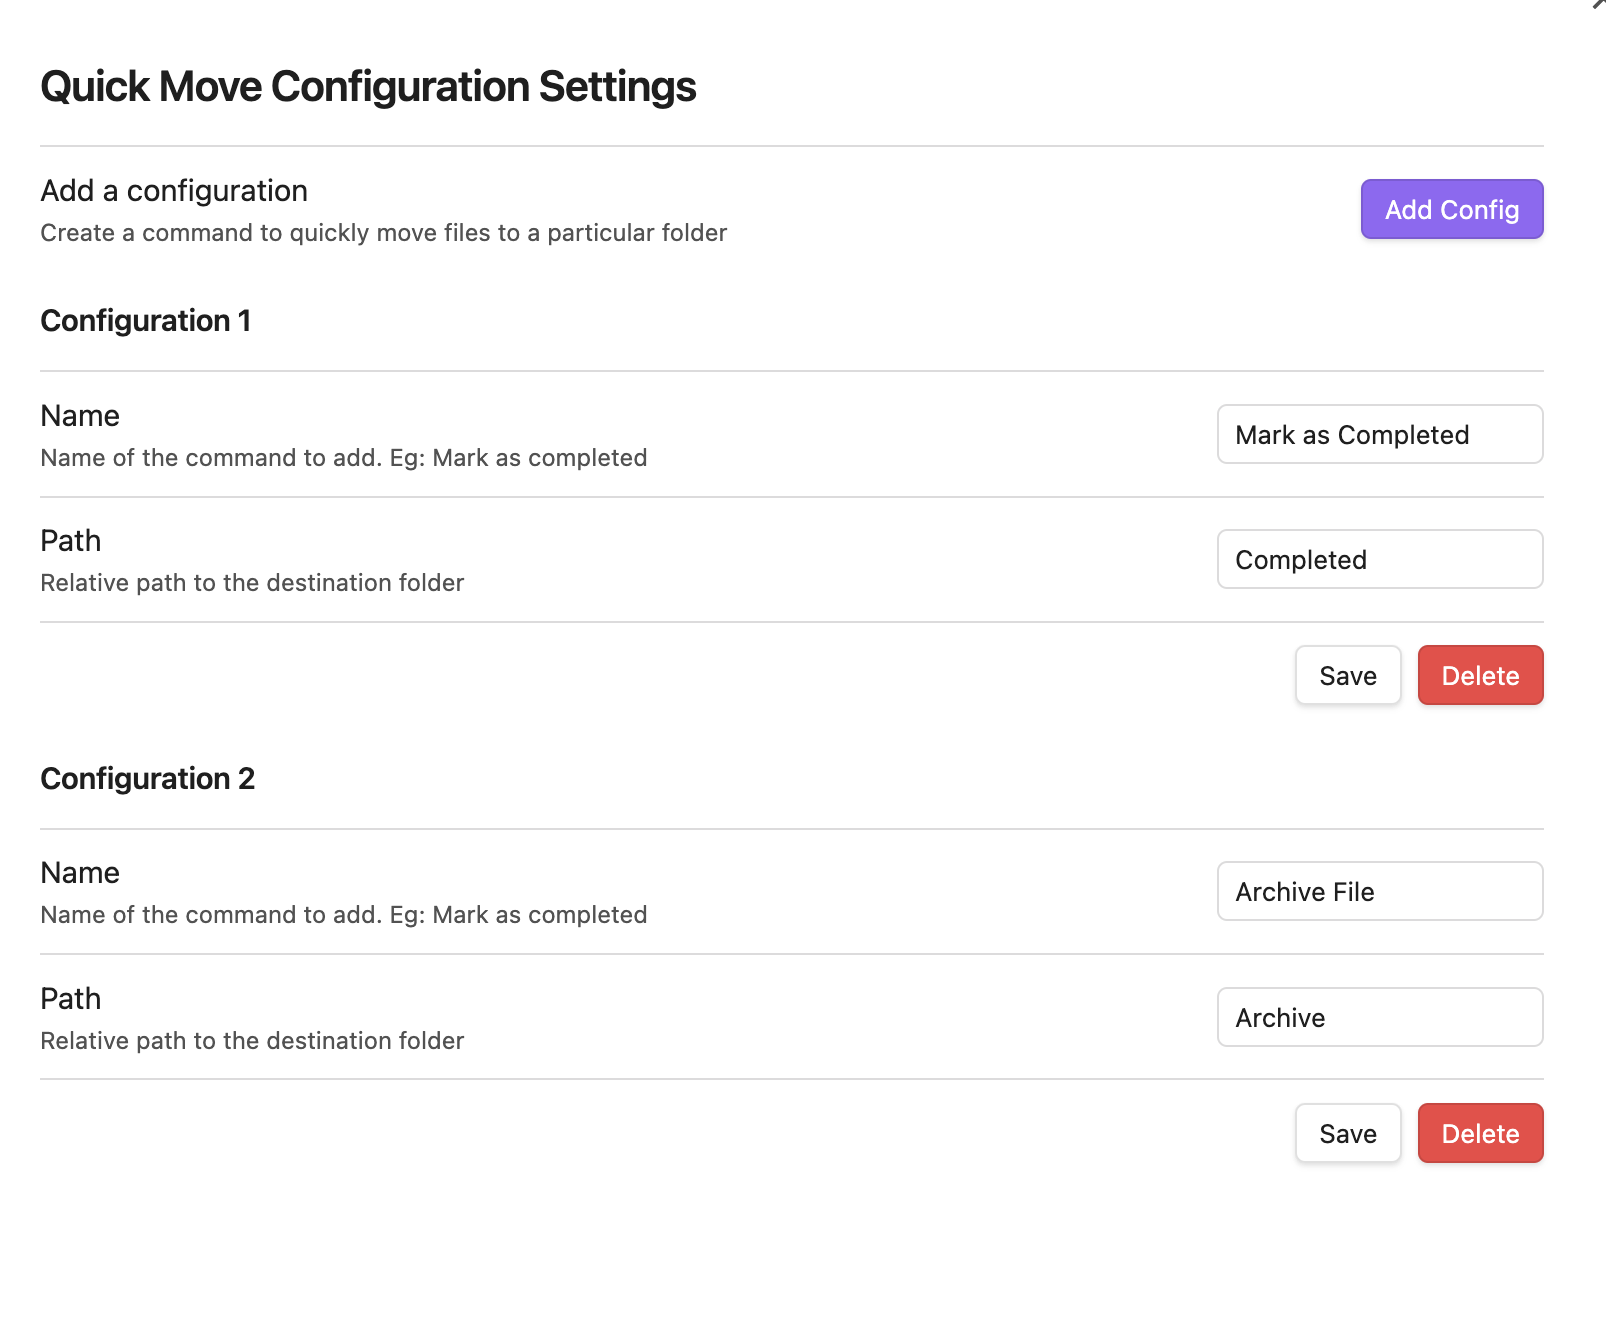
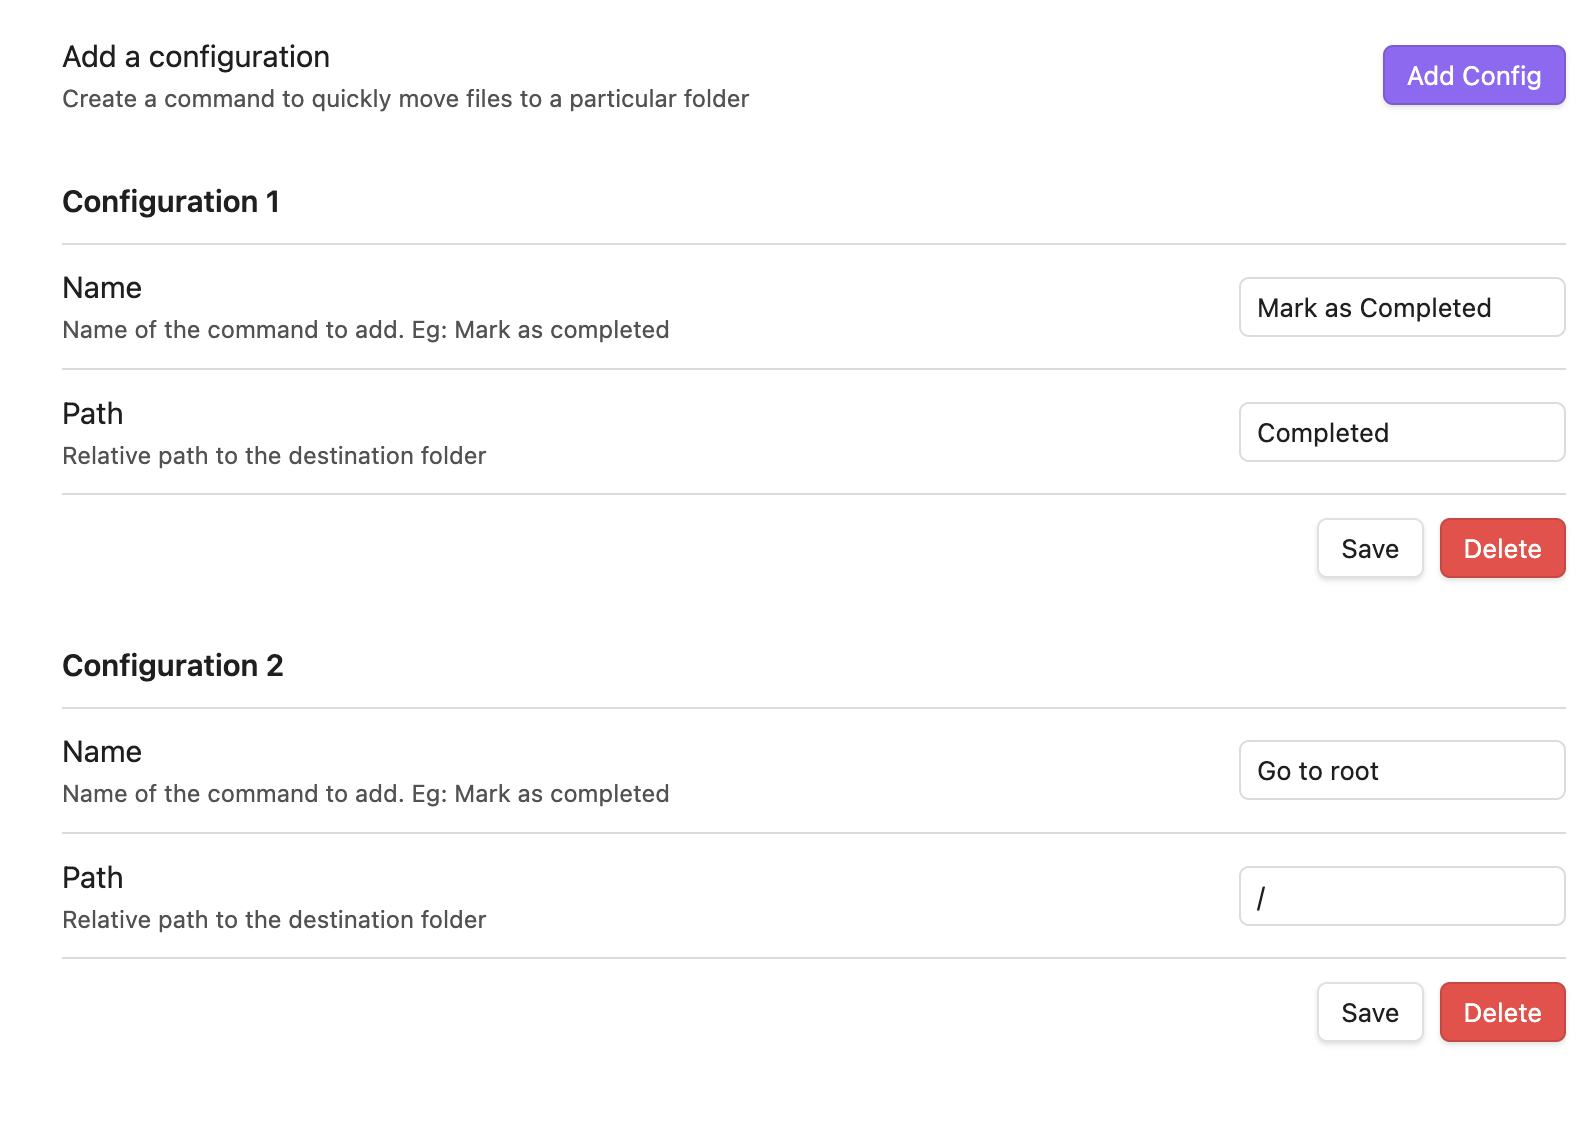
Fixed screenshots and manifest and license

diff --git a/main.ts b/main.ts
@@ -119,10 +119,6 @@ class MoveFileSettingTab extends PluginSettingTab {
 
 		containerEl.empty();
 
-		containerEl.createEl("h3", {
-			text: `Quick Move Configuration Settings`,
-		});
-
 		new Setting(containerEl)
 			.setName("Add a configuration")
 			.setDesc(
@@ -145,9 +141,11 @@ class MoveFileSettingTab extends PluginSettingTab {
 
 		this.plugin.settings.moveFileConfigs.forEach(
 			(moveFileConfig, index) => {
-				containerEl.createEl("h2", {
-					text: `Configuration ${index + 1}`,
-				});
+				// containerEl.createEl("h2", {
+				// 	text: `Configuration ${index + 1}`,
+				// });
+
+				new Setting(containerEl).setName('Configuration ' + (index + 1)).setHeading();
 
 				new Setting(containerEl)
 					.setName("Name")
